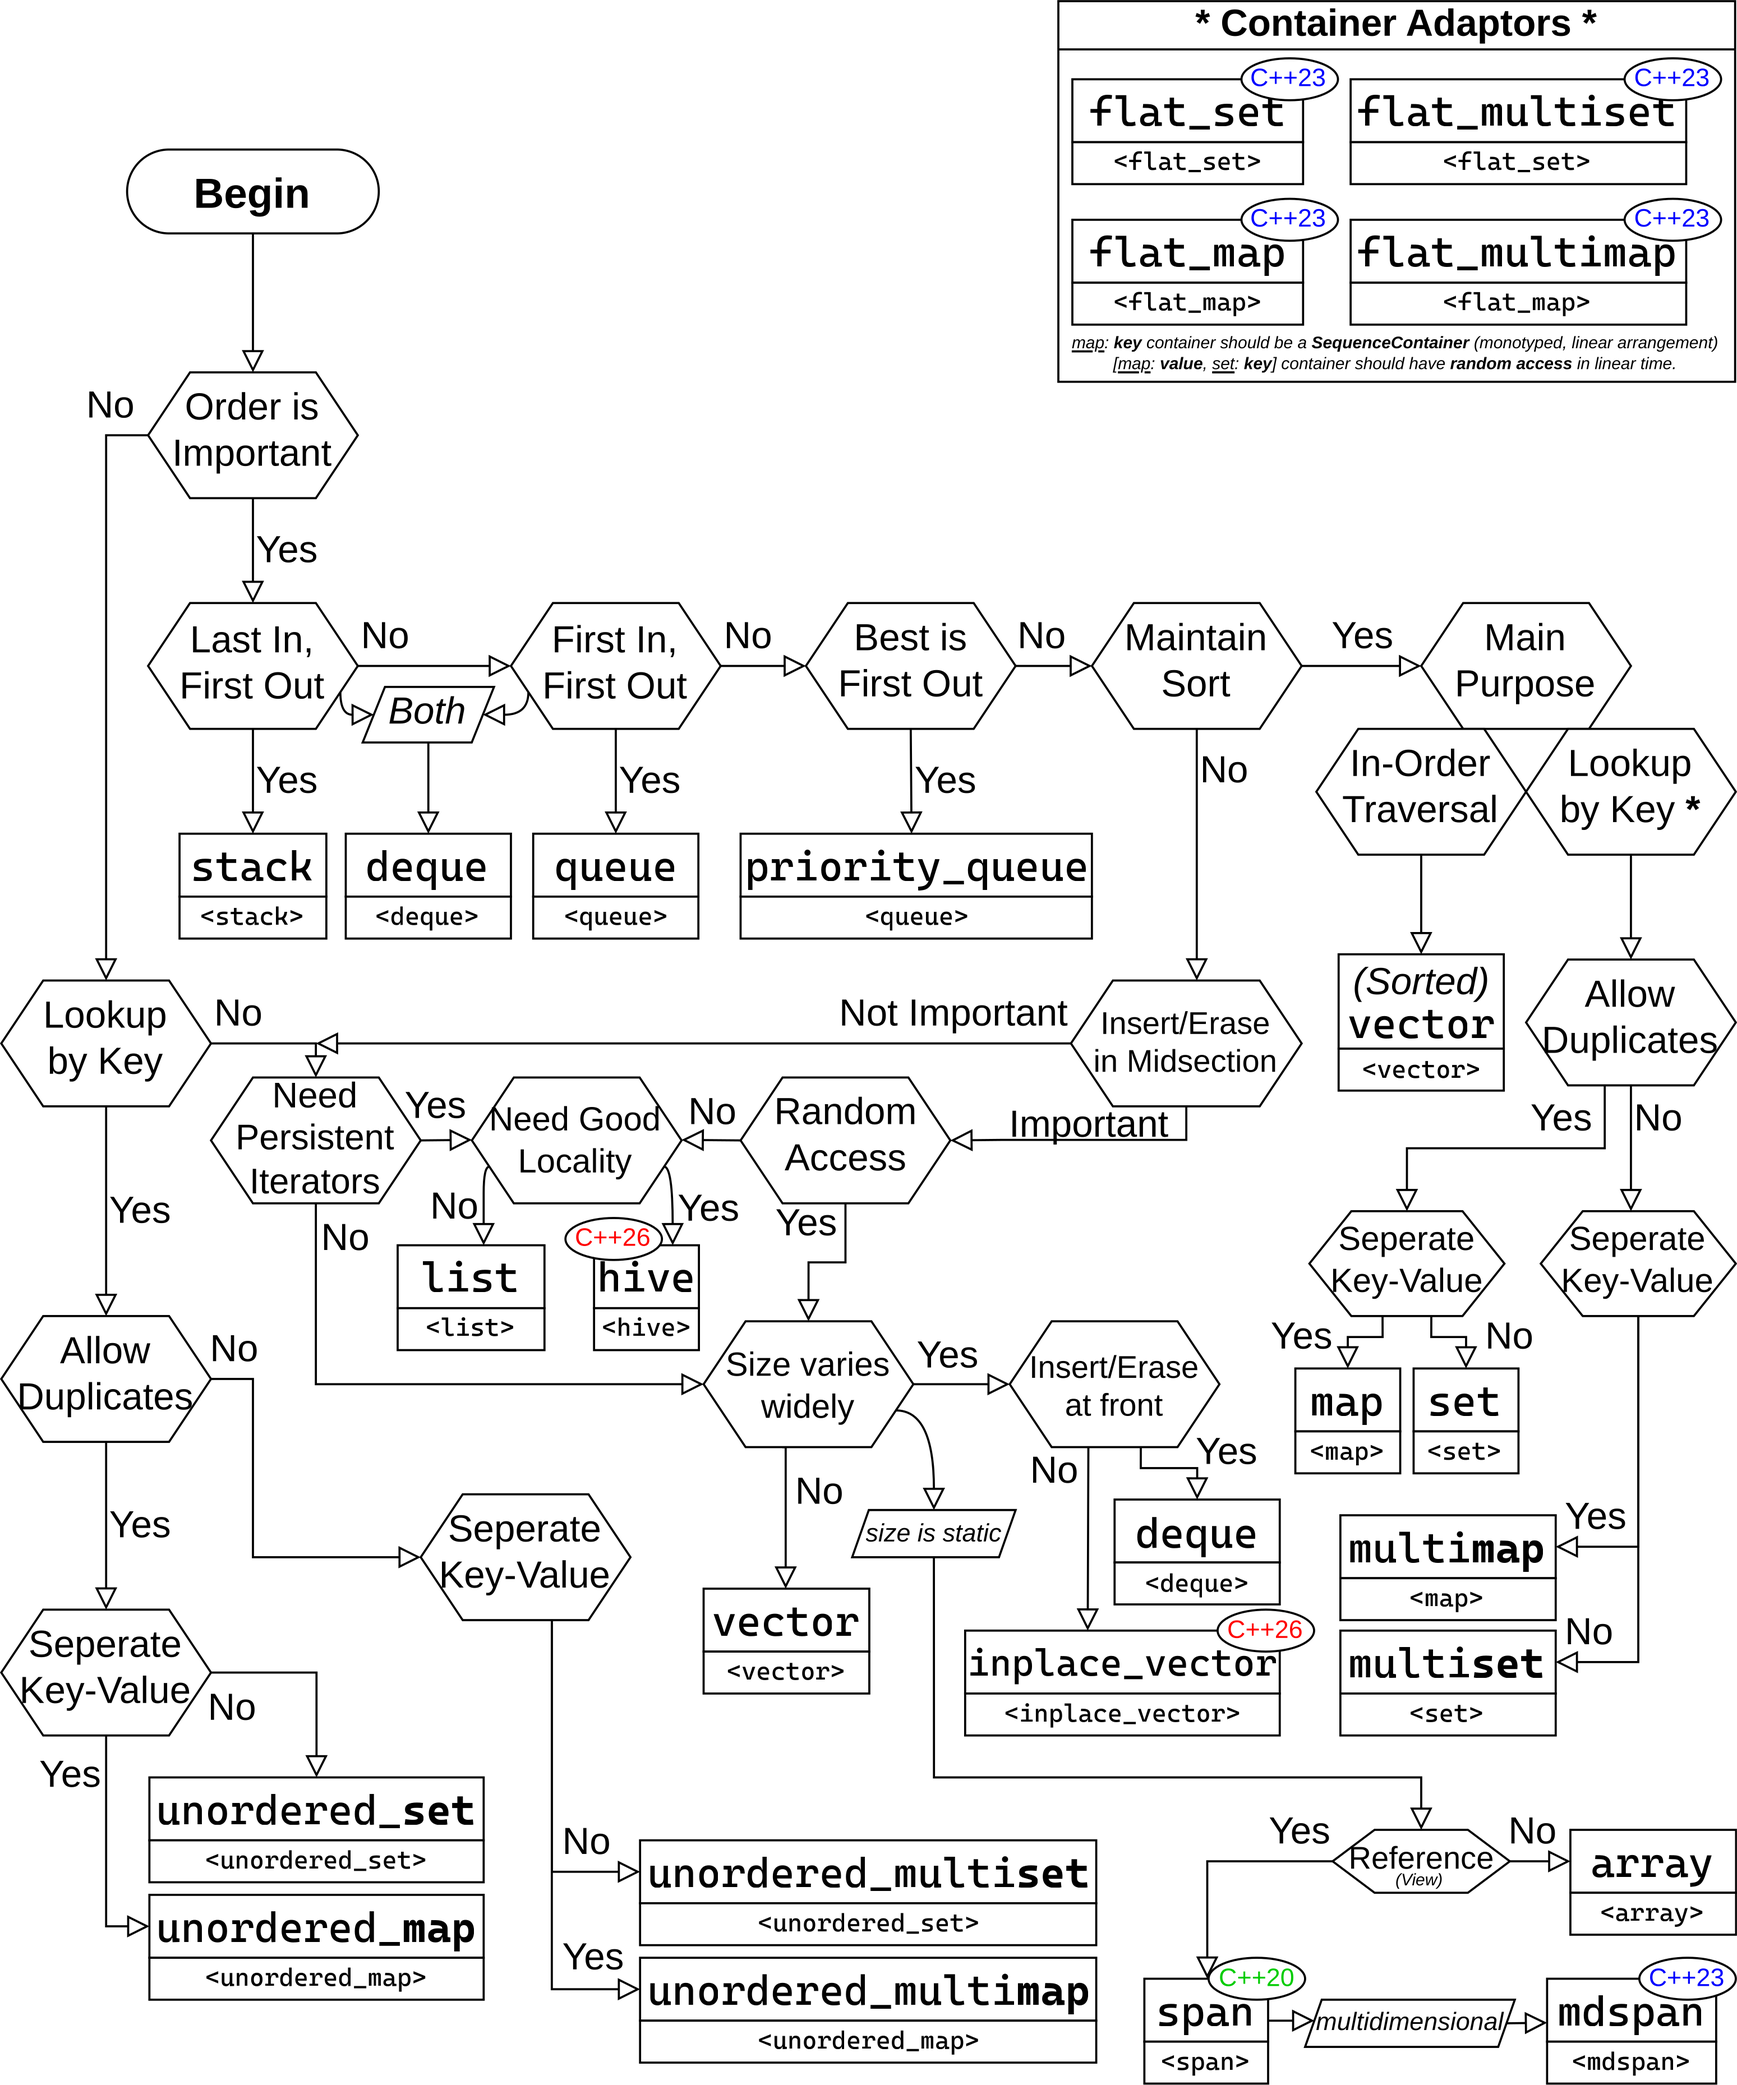
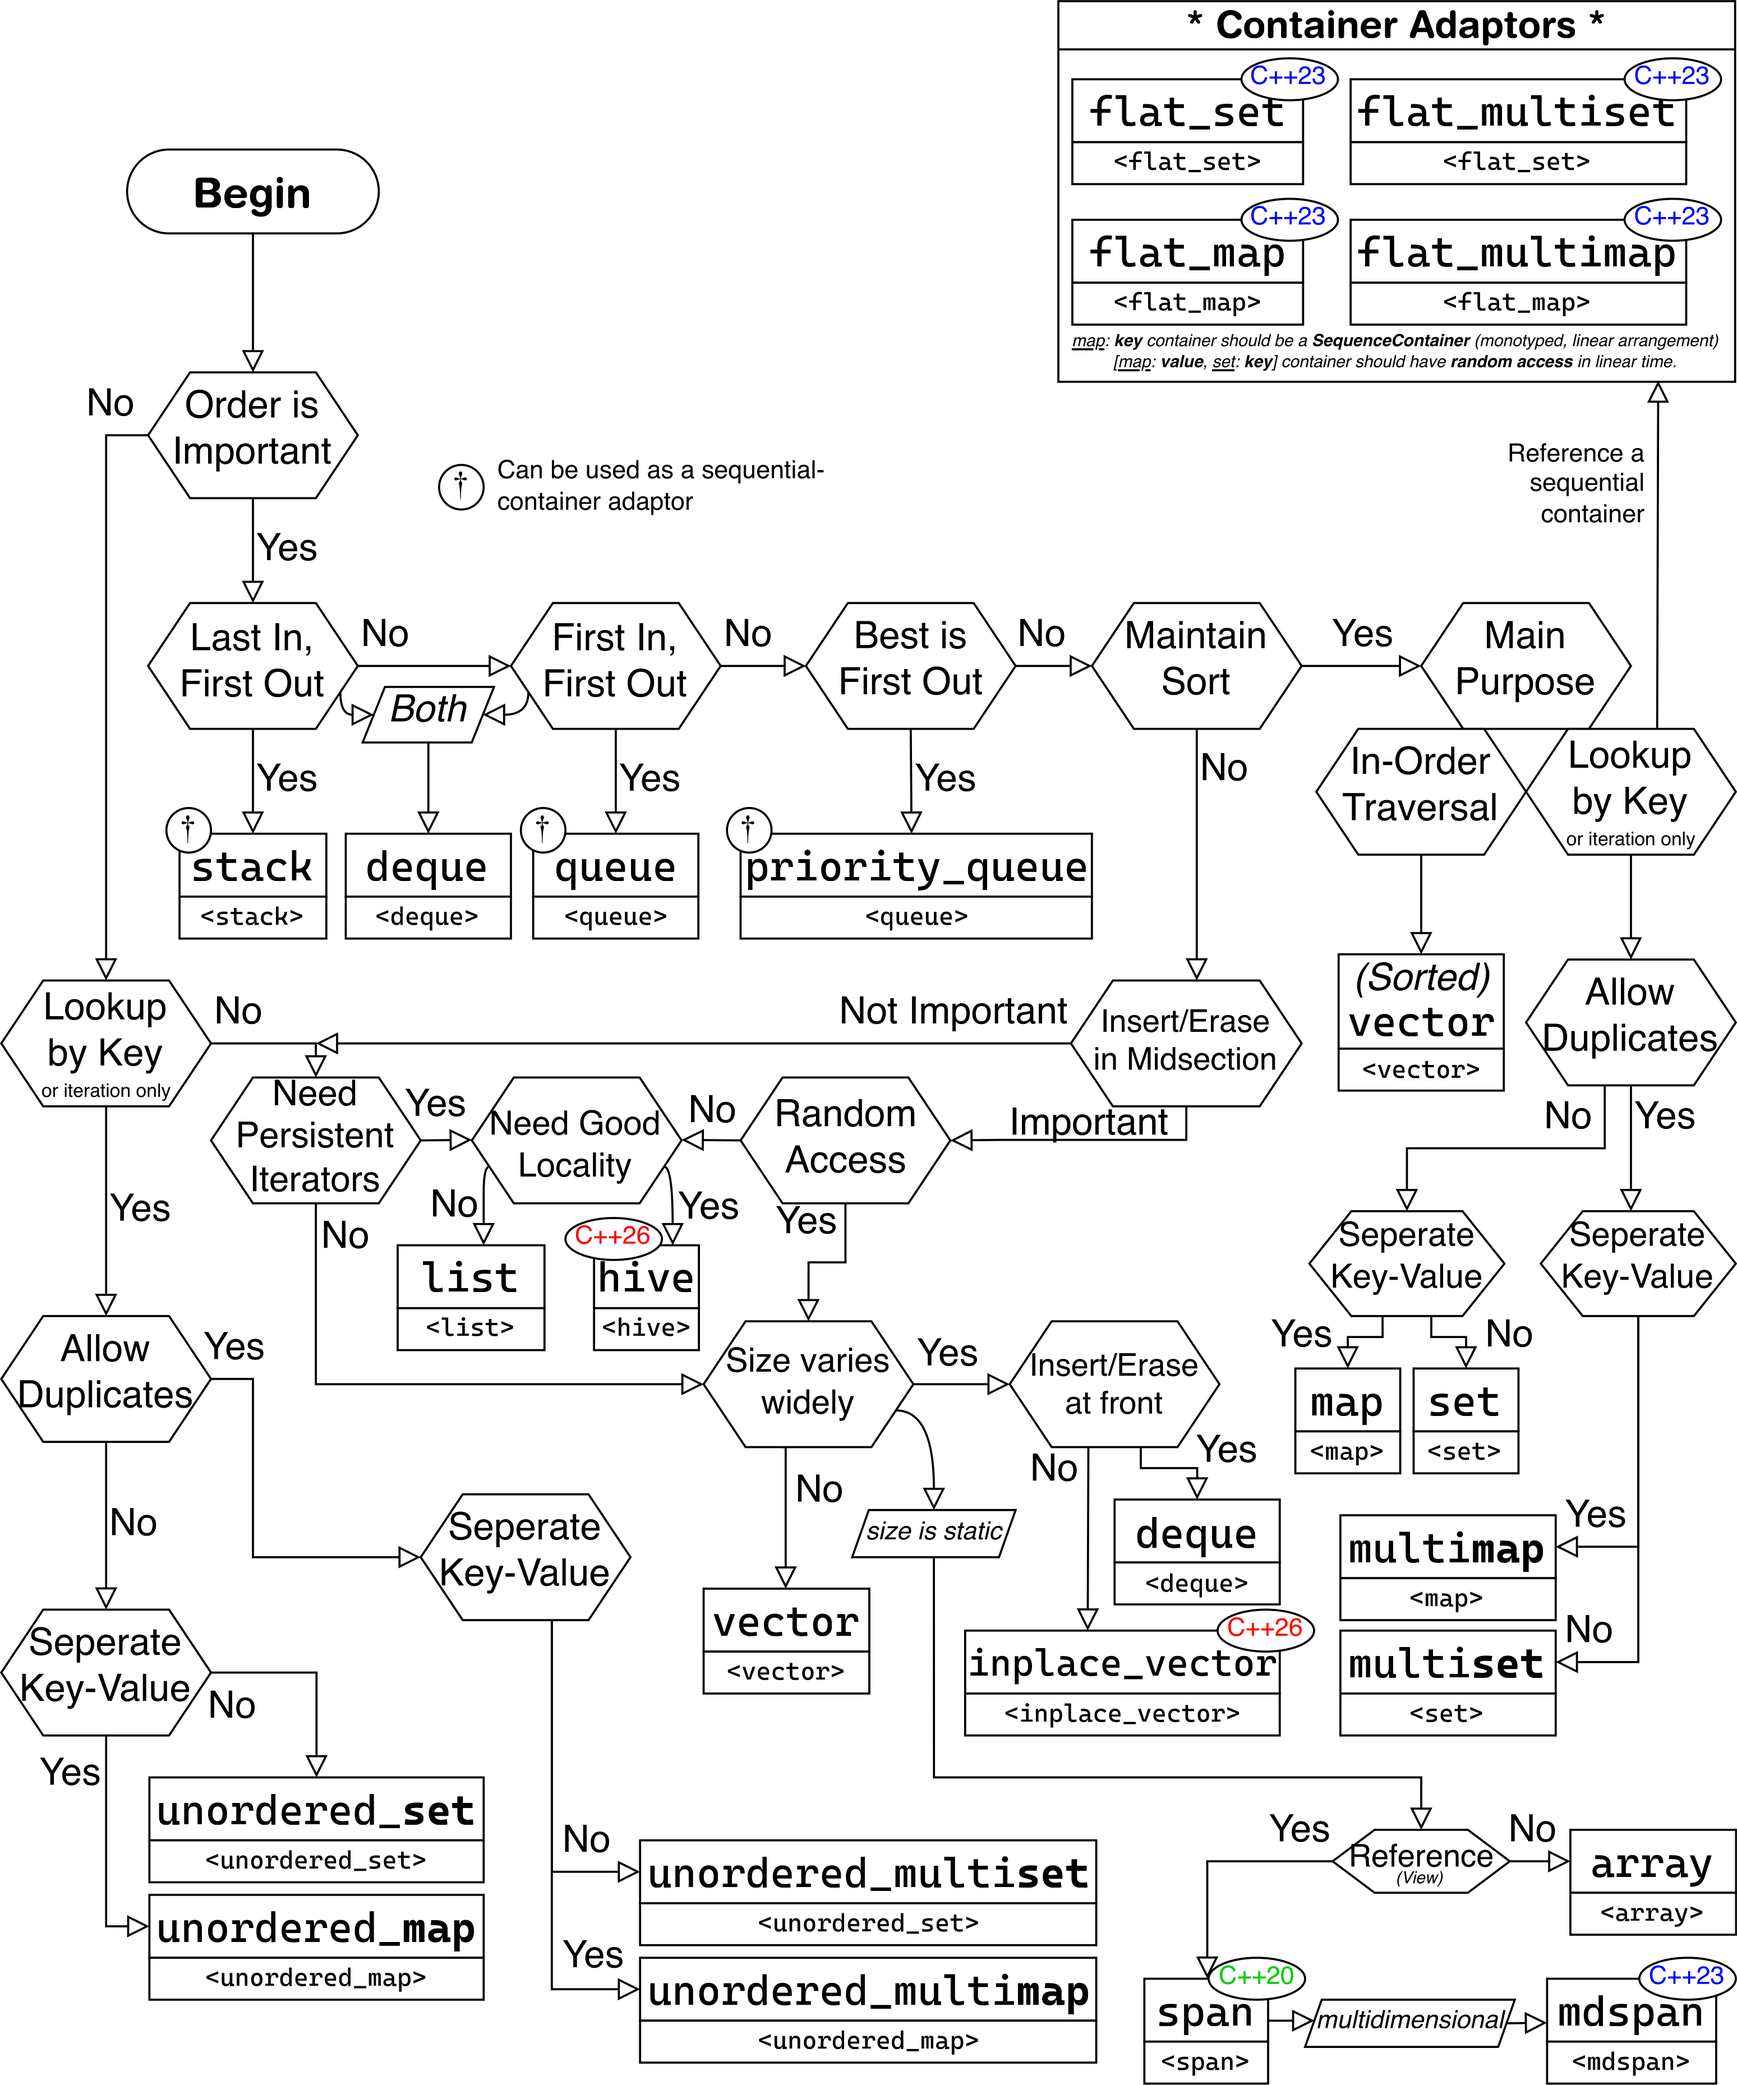
Quartz sync: Dec 27, 2025, 2:22 PM

diff --git a/content/Programming/C++26 Containers.md b/content/Programming/C++26 Containers.md
@@ -1,4 +1,6 @@
 ![[C++26 Container Decision Tree.webp]]
-> I made this handy decision tree for all data structures in C++26 using Draw.io 🙂
->
-> It's based on an old C++11 version somebody else made.
+I made this handy decision tree for [all data structures in C++26](https://cppreference.com/w/cpp/container.html) using [Draw.io](https://www.drawio.com/) 🙂
+
+It's based on [an old C++11 version](https://share.google/images/iUEoGunuUfEKDOa2C) somebody else made.
+
+**Update (December 27, 2025)**: I fixed an error where the "Allow Duplicates" decision was the wrong way around; `multiset` and `multimap` allow duplicate keys, while `set` and `map` do not (the same applies to the `unordered` versions). And I added a little additional context to "Lookup by Key" because sometimes you just want to use a `set` (or `map`) and traverse it using iterators, no keys required. I also marked `stack`, `queue`, and `priority_queue` because they can be used as container adapters (by default `stack` and `queue` use `deque` and `priority_queue` uses `vector` under the hood). Also, fun fact, apparently "adaptor" is the U.K. spelling, but it's already on there and that's what [cppreference.com](https://cppreference.com/w/cpp/container.html#Container_adaptors) uses.

diff --git a/content/Blog/December 25, 2025.md b/content/Blog/December 25, 2025.md
@@ -1,0 +1,12 @@
+---
+title: Christmas 2025, "Blog Manifestations of Love"
+publish: false
+---
+Today's Song: [The 3 R's · Jack Johnson](https://music.youtube.com/watch?v=6i6PFpKQdk8)
+lol, just kidding (*Jack Johnson is dope tho, FR*): [Christmas Magic · Laufey](https://music.youtube.com/watch?v=SqU9FoD4fuk) 💙🤍💙
+Bonus because Laufey rocks and it's nice to have some fresh Christmas music (the classics are always classic of course): [Christmas Dreaming · Laufey](https://music.youtube.com/watch?v=9g7rfA74AuU)
+
+I finally got my [CEPH](https://ceph.io/en/) server online again and have my files backed up in triplicate 👌🏼 It's amazing what you can do with a couple junk computers, some garbo hard drives, and a half-working router.
+
+I find it amusing that you can have your characters in The Sims 4 "Blog Manifestations of Love" on the computer when their in the mood for it. So why not speak on the manifestations of love, for Christmas no less. Love is a loaded word of course, it is a word of multifarious meaning; thus, there are multifarious things to be said on the matter. Perhaps I will simply speak from the heart then.
+

diff --git a/content/Art/Essential Media.md b/content/Art/Essential Media.md
@@ -1,6 +1,7 @@
 ## Trivia
 
 Sharky asked me this:
+
 - Who's my favorite NPC?
 	- Joshua Graham
 - Who's my favorite protagonist?
@@ -36,6 +37,7 @@ Sharky asked me this:
 		- The Ceaseless Watcher (Magnus Archives)
 		- The Joker
 		- Ebenezer Scrooge
+
 *It's hard for me to pick favorites, which is why I tend to have multiple favorites.*
 
 ## TV-Shows
